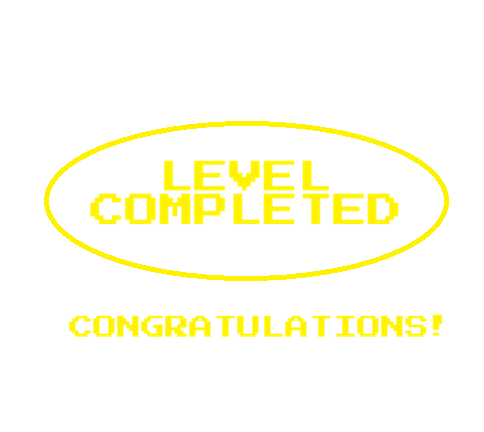
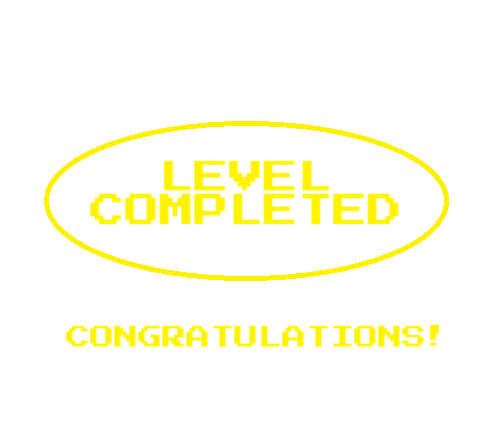
almost end

Changed region(s): [[0.124, 0.7222, 0.9298, 0.8125]]

diff --git a/02-Bubble/Scene.cpp b/02-Bubble/Scene.cpp
@@ -28,10 +28,16 @@ namespace
 	const int EXPLOSION_FRAME_COUNT = 5;
 	const int EXPLOSION_DURATION_MS = 400;
    const int CLOCK_FREEZE_DURATION_MS = 3000;
-   const int LEVEL_COMPLETED_DURATION_MS = 4000;
+    const int LEVEL_COMPLETED_DURATION_MS = 5000;
+   const int NEXT_LEVEL_BLINK_INTERVAL_MS = 500;
+   const int LEVEL_COMPLETE_STARS_COUNT = 3;
+	const int LEVEL_COMPLETE_STARS_SIZE_PX = 32;
+	const int LEVEL_COMPLETE_STARS_ANIM_FPS = 6;
+	const int LEVEL_COMPLETE_STARS_Y_BOTTOM_MARGIN_PX = 36;
   const int GAME_OVER_DURATION_MS = 5000;
 	const int GAME_OVER_APPEAR_TIME_MS = 700;
 	const float GAME_OVER_DARKEN_FACTOR = 0.45f;
+  const float LEVEL_COMPLETED_DARKEN_FACTOR = 0.25f;
     const int SHIELD_HIT_INVULN_TIME_MS = 600;
    const float PAUSE_MENU_DARKEN_FACTOR = 0.45f;
 	const int HUD_BOMB_ICON_SIZE_PX = 16;
@@ -124,6 +130,9 @@ Scene::~Scene()
 		glDeleteVertexArrays(1, &bombHudVao);
 	if(bombHudVbo != 0)
 		glDeleteBuffers(1, &bombHudVbo);
+   for(int i = 0; i < int(levelCompletedStars.size()); ++i)
+		delete levelCompletedStars[i];
+	levelCompletedStars.clear();
 }
 
 
@@ -294,11 +303,49 @@ void Scene::init(const std::string &sceneName)
 	levelCompletedTexture.setMinFilter(GL_NEAREST);
 	levelCompletedTexture.setMagFilter(GL_NEAREST);
 
+	nextLevelTexture.loadFromFile("images/nxtlev.png", TEXTURE_PIXEL_FORMAT_RGBA);
+	nextLevelTexture.setWrapS(GL_CLAMP_TO_EDGE);
+	nextLevelTexture.setWrapT(GL_CLAMP_TO_EDGE);
+	nextLevelTexture.setMinFilter(GL_NEAREST);
+	nextLevelTexture.setMagFilter(GL_NEAREST);
+
 	pauseMenuTexture.loadFromFile("images/Pause-Menu.png", TEXTURE_PIXEL_FORMAT_RGBA);
 	pauseMenuTexture.setWrapS(GL_CLAMP_TO_EDGE);
 	pauseMenuTexture.setWrapT(GL_CLAMP_TO_EDGE);
 	pauseMenuTexture.setMinFilter(GL_NEAREST);
 	pauseMenuTexture.setMagFilter(GL_NEAREST);
+
+	starsTexture.loadFromFile("images/stars.png", TEXTURE_PIXEL_FORMAT_RGBA);
+	starsTexture.setWrapS(GL_CLAMP_TO_EDGE);
+	starsTexture.setWrapT(GL_CLAMP_TO_EDGE);
+	starsTexture.setMinFilter(GL_NEAREST);
+	starsTexture.setMagFilter(GL_NEAREST);
+	for(int i = 0; i < int(levelCompletedStars.size()); ++i)
+		delete levelCompletedStars[i];
+	levelCompletedStars.clear();
+
+   const float starsMapPixelW = map->getMapSize().x * map->getTileSize();
+	const float starsMapPixelH = map->getMapSize().y * map->getTileSize();
+	const float starsY = starsMapPixelH - float(LEVEL_COMPLETE_STARS_Y_BOTTOM_MARGIN_PX + LEVEL_COMPLETE_STARS_SIZE_PX);
+	for(int i = 0; i < LEVEL_COMPLETE_STARS_COUNT; ++i)
+	{
+		Sprite *star = Sprite::createSprite(
+			glm::ivec2(LEVEL_COMPLETE_STARS_SIZE_PX, LEVEL_COMPLETE_STARS_SIZE_PX),
+			glm::vec2(1.f / 3.f, 1.f),
+			&starsTexture,
+			&texProgram);
+		star->setNumberAnimations(1);
+		star->setAnimationSpeed(0, LEVEL_COMPLETE_STARS_ANIM_FPS);
+		star->addKeyframe(0, glm::vec2(0.f / 3.f, 0.f));
+		star->addKeyframe(0, glm::vec2(1.f / 3.f, 0.f));
+		star->addKeyframe(0, glm::vec2(2.f / 3.f, 0.f));
+		star->changeAnimation(0);
+
+		const float xNormalized = float(i + 1) / float(LEVEL_COMPLETE_STARS_COUNT + 1);
+      const float starX = (starsMapPixelW * xNormalized) - (LEVEL_COMPLETE_STARS_SIZE_PX * 0.5f);
+		star->setPosition(glm::vec2(starX, starsY));
+		levelCompletedStars.push_back(star);
+	}
 	player = new Player();
 	player->init(glm::ivec2(SCREEN_X, SCREEN_Y), texProgram);
  player->setLives(remainingLives);
@@ -427,6 +474,9 @@ void Scene::update(int deltaTime)
 
 	if(levelCompletedActive)
 	{
+     for(int i = 0; i < int(levelCompletedStars.size()); ++i)
+			levelCompletedStars[i]->update(deltaTime);
+
 		levelCompletedTimerMs -= deltaTime;
 		if(levelCompletedTimerMs <= 0)
 		{
@@ -792,7 +842,7 @@ void Scene::render()
 	if(gameOverActive)
 		sceneDarken = GAME_OVER_DARKEN_FACTOR;
 	else if(levelCompletedActive)
-		sceneDarken = PAUSE_MENU_DARKEN_FACTOR;
+     sceneDarken = LEVEL_COMPLETED_DARKEN_FACTOR;
 	else if(pauseActive)
 		sceneDarken = PAUSE_MENU_DARKEN_FACTOR;
 
@@ -886,6 +936,12 @@ void Scene::render()
 	if(levelCompletedActive && gameOverVao != 0)
 	{
 		renderFullScreenOverlay(levelCompletedTexture, 1.0f);
+     const int blinkPhase = levelCompletedTimerMs / NEXT_LEVEL_BLINK_INTERVAL_MS;
+		if((blinkPhase % 2) == 0)
+			renderFullScreenOverlay(nextLevelTexture, 1.0f);
+
+		for(int i = 0; i < int(levelCompletedStars.size()); ++i)
+			levelCompletedStars[i]->render();
 	}
 
 	if(pauseActive && gameOverVao != 0)

diff --git a/02-Bubble/Scene.h b/02-Bubble/Scene.h
@@ -15,6 +15,7 @@
 #include "Bomb.h"
 #include "ShieldItem.h"
 #include "ClockItem.h"
+#include "Sprite.h"
 
 // Scene contains all the entities of our game.
 // It is responsible for updating and render them.
@@ -91,12 +92,15 @@ private:
 	GLint explosionPosLocation, explosionTexCoordLocation;
     Texture gameOverTexture;
     Texture levelCompletedTexture;
+    Texture nextLevelTexture;
 	GLuint gameOverVao, gameOverVbo;
 	GLint gameOverPosLocation, gameOverTexCoordLocation;
     Texture pauseMenuTexture;
 	Texture bombHudTexture;
+  Texture starsTexture;
 	GLuint bombHudVao, bombHudVbo;
 	GLint bombHudPosLocation, bombHudTexCoordLocation;
+ std::vector<Sprite*> levelCompletedStars;
 	bool playerDeathActive;
   bool gameOverActive;
 	int gameOverTimerMs;
